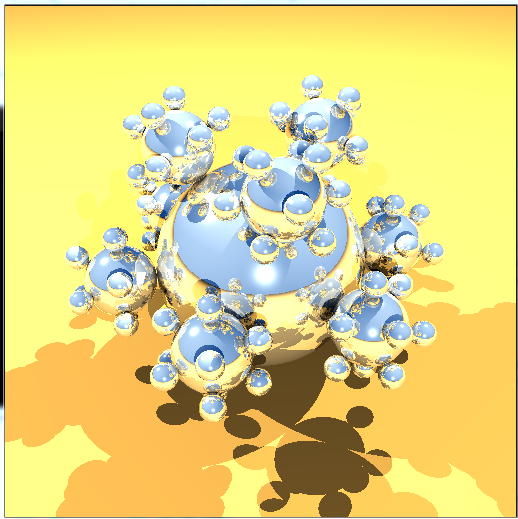
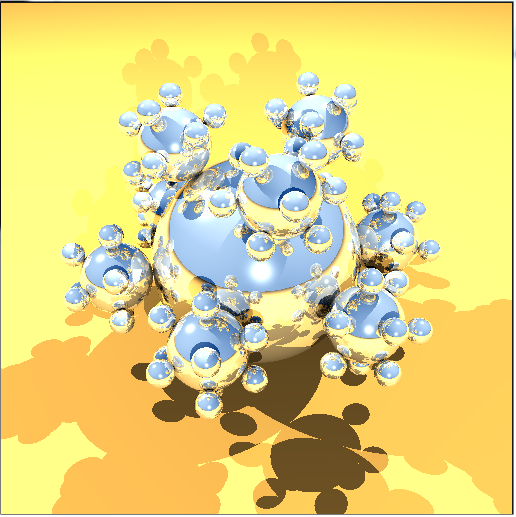
triangles detected; refraction left

diff --git a/raytracing/raytracing/scene.h b/raytracing/raytracing/scene.h
@@ -2,6 +2,7 @@
 #include <vector>
 #include <fstream>
 #include <limits>
+#define _USE_MATH_DEFINES
 #include <math.h>
 
 #include <glm/vec3.hpp>
@@ -11,7 +12,6 @@ using namespace std;
 using namespace glm;
 
 #define EPSILON 0.001f
-#define PI 3.14159265
 istream &operator>>(istream &i, vec3 &v){
 	 
 	i >> v.x >> v.y >> v.z;	
@@ -58,12 +58,19 @@ public:
 	float index_of_refraction;
 };
 
-class Plane{
+class Object {
+public:
+	Material material;
+	Object(Material mat) : material(mat){}
+	virtual float intersectDistance(const Ray& ray, const float& minDist, vec3& intersection, vec3& normal) const {
+		return -1;
+	};
+};
+class Plane: public Object{
 public:
 	vec3 n;
 	float d;
-	Material material;
-	Plane(vec3 v0, vec3 v1, vec3 v2, Material mat):material(mat) {
+	Plane(vec3 v0, vec3 v1, vec3 v2, Material mat): Object(mat){
 		vec3 s0, s1;
 		s0 = v1 - v0;
 		s1 = v2 - v0;
@@ -87,18 +94,18 @@ public:
 	}
 };
 
-class Sphere{
+class Sphere: public Object{
 public:
 	vec3 pos;
 	float r;
-	Material material;
-	Sphere(vec3 pos, float r, Material mat) : pos(pos), r(r), material(mat) {
+	Sphere(vec3 pos, float r, Material mat) : pos(pos), r(r), Object(mat) {
 	}
 
 	float intersectDistance(const Ray& ray, const float& minDist, vec3& intersection, vec3& normal) const {
 		vec3 diff = (pos - ray.o);
 		float t = -1;
-		float distsquare = dot(diff, diff);
+		float distsquare = glm::length(diff) * glm::length(diff);
+		
 		if (distsquare == r*r) return -1; // ray on the sphere
 		float B = dot(ray.d, diff);
 		if (distsquare > r*r) {
@@ -119,15 +126,89 @@ public:
 	}
 };
 
-class Triangle{
+class Triangle: public Object{
 public:
-	vec3 v0;
-	vec3 v1;
-	vec3 v2;	
-	Material material;
-	Triangle(vec3 v0, vec3 v1, vec3 v2, Material mat) : v0(v0), v1(v1), v2(v2), material(mat) {
+	vec3 V0;
+	vec3 V1;
+	vec3 V2;
+	vec3 normal;
+	// 
+	float d;
+
+
+	Triangle(vec3 v0, vec3 v1, vec3 v2, Material mat) : V0(v0), V1(v1), V2(v2), Object(mat){
+		normal = normalize(cross(v1 - v0, v2 - v0));
+		// for each point P of the plane, P.N is constant
+		d = -dot(v0, normal);
 	}
-	float  intersectDistance(const Ray& ray,const float& minDist,const vec3& intersection, vec3& normal) const {
+	float intersectDistance(const Ray& ray, const float& minDist, vec3& intersection, vec3& normal) const {
+		float NO = dot(ray.o, this->normal);
+		float ND = dot(ray.d, this->normal);
+		if (ND == 0) { // ray parallel to triangle
+			return -1;
+		}
+		float t = (-d -NO) / ND;
+		if (t < 0.0f) { // triangle behind ray
+			return -1;
+		}
+		if (minDist < t) { // a closed intersection has already been found
+			return -1;
+		}
+		vec3 P = ray.o + t*ray.d;
+		int i0, i1, i2; // index of the vectors of the projection of the triangle on a primary plane
+		float maxN = glm::max(this->normal.x, this->normal.y);
+		maxN = glm::max(maxN, this->normal.z);
+		if (this->normal.x == maxN) { 
+			i0 = 0;
+			i1 = 1;
+			i2 = 2;
+		}
+		else if (this->normal.y == maxN) {
+			i0 = 1; 
+			i1 = 0;
+			i2 = 2;
+		}
+		else {
+			i0 = 2;
+			i1 = 0;
+			i2 = 1;
+		}
+
+		float u0 = P[i1] - V0[i1];
+		float v0 = P[i2] - V0[i2];
+		float u1 = V1[i1] - V0[i1];
+		float u2 = V2[i1] - V0[i1];
+		float v1 = V1[i2] - V0[i2];
+		float v2 = V2[i2] - V0[i2];
+		float alpha, beta;
+
+		if (u1 == 0) {
+			beta = u0 / u2;
+			if (0 <= beta && beta <= 1) {
+				alpha = (v0 - beta * v2) / v1;
+			}
+			else {
+				return -1;
+			}
+		}
+		else {
+			beta = (v0*u1 - u0*v1) / (v2*u1 - u2*v1);
+			if (0 <= beta && beta <= 1) {
+				alpha = (u0 - beta * u2) / u1;
+			}
+			else {
+				return -1;
+			}
+		}
+
+		if (alpha >= 0 && beta >= 0 && (alpha + beta) <= 1) {
+			
+			normal = this->normal;
+			intersection = P;
+			intersection += normal * EPSILON;
+			return t;
+		}
+		
 		return -1;
 	}
 };
@@ -143,6 +224,7 @@ public:
 	vector<Plane> planes;
 	vector<Sphere> spheres;
 	vector<Triangle> triangles;
+	vector<Object*> objects;
 
 	int load_nff(string path) {
 		ifstream f;
@@ -162,6 +244,7 @@ public:
 				assert(type == "from");
 				f >> camera.from;
 				f >> type;
+				cout << "camera.from: " << camera.from << endl;
 				assert(type == "at");
 				f >> camera.at;
 				f >> type;
@@ -181,6 +264,7 @@ public:
 			else if (type == "l") {
 				Light l;
 				f >> l.pos;
+				cout << "l.pos: " << l.pos << endl;
 				// TODO color is optional
 				f >> l.color;
 				lights.push_back(l);
@@ -201,17 +285,17 @@ public:
 				f >> v0;
 				f >> v1;
 				f >> v2;			
-				planes.push_back(Plane(v0, v1, v2, lastMaterial));
+				objects.push_back(new Plane(v0, v1, v2, lastMaterial));
 			}
 			else if (type == "s") {
 				vec3 pos;
 				float r;
 				f >> pos;
 				f >> r;
-				spheres.push_back(Sphere(pos, r, lastMaterial));
+				objects.push_back(new Sphere(pos, r, lastMaterial));
 			}
 			else if (type == "") {
-
+				cout << "read empty line" << endl;
 			}
 			else if (type == "p") {
 				int numVertices;
@@ -224,13 +308,14 @@ public:
 				f >> v0;
 				f >> v1;
 				f >> v2;
-				triangles.push_back(Triangle(v0, v1, v2, lastMaterial));
+				objects.push_back(new Triangle(v0, v1, v2, lastMaterial));
 			}else {
 				printf("load_nff: Unrecognizable '%s' ", type.c_str());
 				cin.get();
 				exit(1);
 			}
 		}
+		printf("number of lights: %d\n", lights.size());
 		printf("number of planes: %d\n", planes.size());
 		printf("number of spheres: %d\n", spheres.size());
 		printf("number of triangles: %d\n", triangles.size());
@@ -243,8 +328,8 @@ public:
 		Ray r;
 		float df, h, w;
 		vec3 xe, ye, ze;				
-		df = (float)(camera.from - camera.at).length();
-		float angle = (PI / 180.0f)*(camera.angle / 2.0f);
+		df = glm::length(camera.from - camera.at);
+		float angle = (M_PI / 180.0f)*(camera.angle / 2.0f);
 		h = 2 * df * tan(angle);
 		w = (camera.resX * h) / camera.resY;
 		ze = (camera.from - camera.at) / df;
@@ -293,73 +378,34 @@ public:
 	}
 
 	bool isShadow(Ray &ray, Light& l) {
-		float lrdist = (l.pos - ray.o).length();
+		float lrdist = glm::length(l.pos - ray.o);
 		float minDist = numeric_limits<float>::max();
 		vec3 intersection, normal;
-		for (auto const& pl : planes) {			
-			float dist = pl.intersectDistance(ray, minDist, intersection, normal);
-			if (dist >= 0 && dist < lrdist) {
-				return true;
-			}			
-		}
-		for (auto const& s : spheres) {		
-			float dist = s.intersectDistance(ray, minDist, intersection, normal);
+		for (auto obj : objects) {
+			vec3 intersection, normal;
+			float dist = obj->intersectDistance(ray, minDist, intersection, normal);
 			if (dist >= 0 && dist < lrdist) {
 				return true;
 			}
-		}
-		for (auto const& t : triangles) {			
-			float dist = t.intersectDistance(ray, minDist, intersection, normal);
-			if (dist >= 0 && dist < lrdist) {
-				return true;
-			}
-		}
+		}	
 		return false;
 	}
 
 	bool getIntersection(const Ray& ray, Material& material, float& minDist, vec3& minIntersection, vec3&minNormal) {
 		bool found = false;
-
-		
-		for (auto const& plane : planes) {
+		minDist = numeric_limits<float>::max();
+		for (auto obj : objects) {
 			vec3 intersection, normal;
-			float dist = plane.intersectDistance(ray, minDist, intersection, normal);
+			float dist = obj->intersectDistance(ray, minDist, intersection, normal);
 			if (dist <= 0) continue;
 			if (found == false || dist < minDist) {
 				minDist = dist;
 				minIntersection = intersection;
 				minNormal = normal;
-				material = plane.material;
+				material = obj->material;
 				found = true;
 			}
 		}
-
-		for (auto const& sphere : spheres) {
-			vec3 intersection, normal;
-			float dist = sphere.intersectDistance(ray, minDist, intersection, normal);
-			if (dist <= 0) continue;
-			if (found == false || dist < minDist) {
-				minDist = dist;
-				minIntersection = intersection;
-				minNormal = normal;
-				material = sphere.material;
-				found = true;
-			}
-		}
-
-		for (auto const& triangle : triangles) {
-			vec3 intersection, normal;
-			float dist = triangle.intersectDistance(ray, minDist, intersection, normal);
-			if (dist <= 0) continue;
-			if (found == false || dist < minDist) {
-				minDist = dist;
-				minIntersection = intersection;
-				minNormal = normal;
-				material = triangle.material;
-				found = true;
-			}
-		}
-
 		return found;
 	}
 
@@ -418,7 +464,16 @@ public:
 		// by experimenting Ks is the correct ratio to use............
 		vec3 reflectColor = material.Ks * rayTracing(reflectRay, depth - 1, RefrIndex);
 		
-		vec3 globalColor = localColor + reflectColor;
+		//refraction
+		/*vec3 refract = glm::refract(-viewDir, intersectionNormal, RefrIndex/material.index_of_refraction);
+		Ray refractRay;
+		refractRay.o = intersectionPoint - ((3* EPSILON)*intersectionNormal); //make sure ray start inside object
+		refractRay.d = normalize(refract);
+		vec3 refractColor = material.Ks * rayTracing(refractRay, depth - 1, material.index_of_refraction);
+		refractColor = max(refractColor, vec3(0, 0, 0));
+		*/
+
+		vec3 globalColor = localColor + reflectColor;// +refractColor;
 		// We use material specular value as the mix percentage, because in example images
 		// the material with Kd == 0 is the only material that has no reflection
 		return  globalColor;

diff --git a/raytracing/raytracing/source.cpp b/raytracing/raytracing/source.cpp
@@ -29,7 +29,7 @@
 
 #define MAX_DEPTH 6
 
-#define RAY_TRACING_DEPTH 10
+#define RAY_TRACING_DEPTH MAX_DEPTH
 // Points defined by 2 attributes: positions which are stored in vertices array and colors which are stored in colors array
 float *colors;
 float *vertices;
